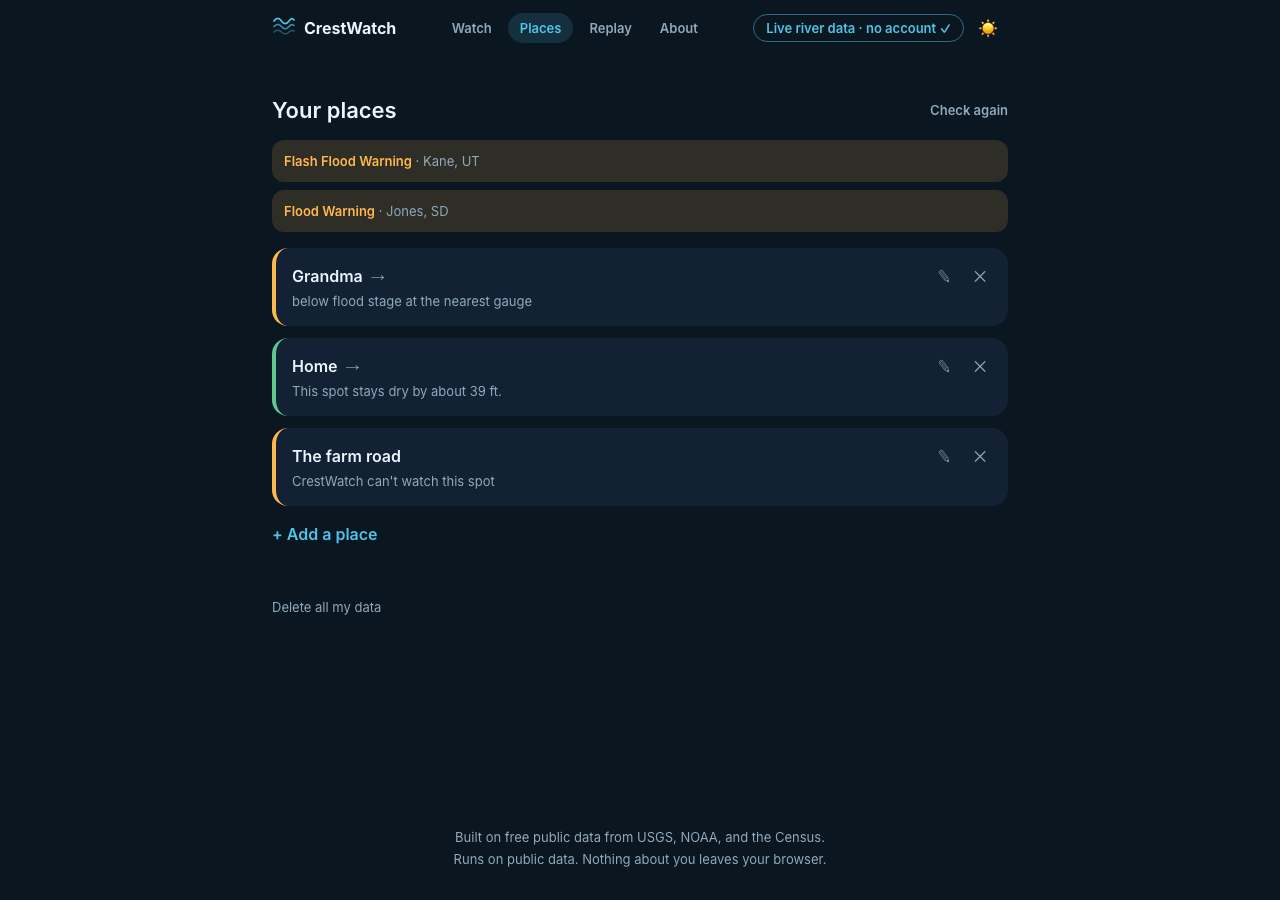
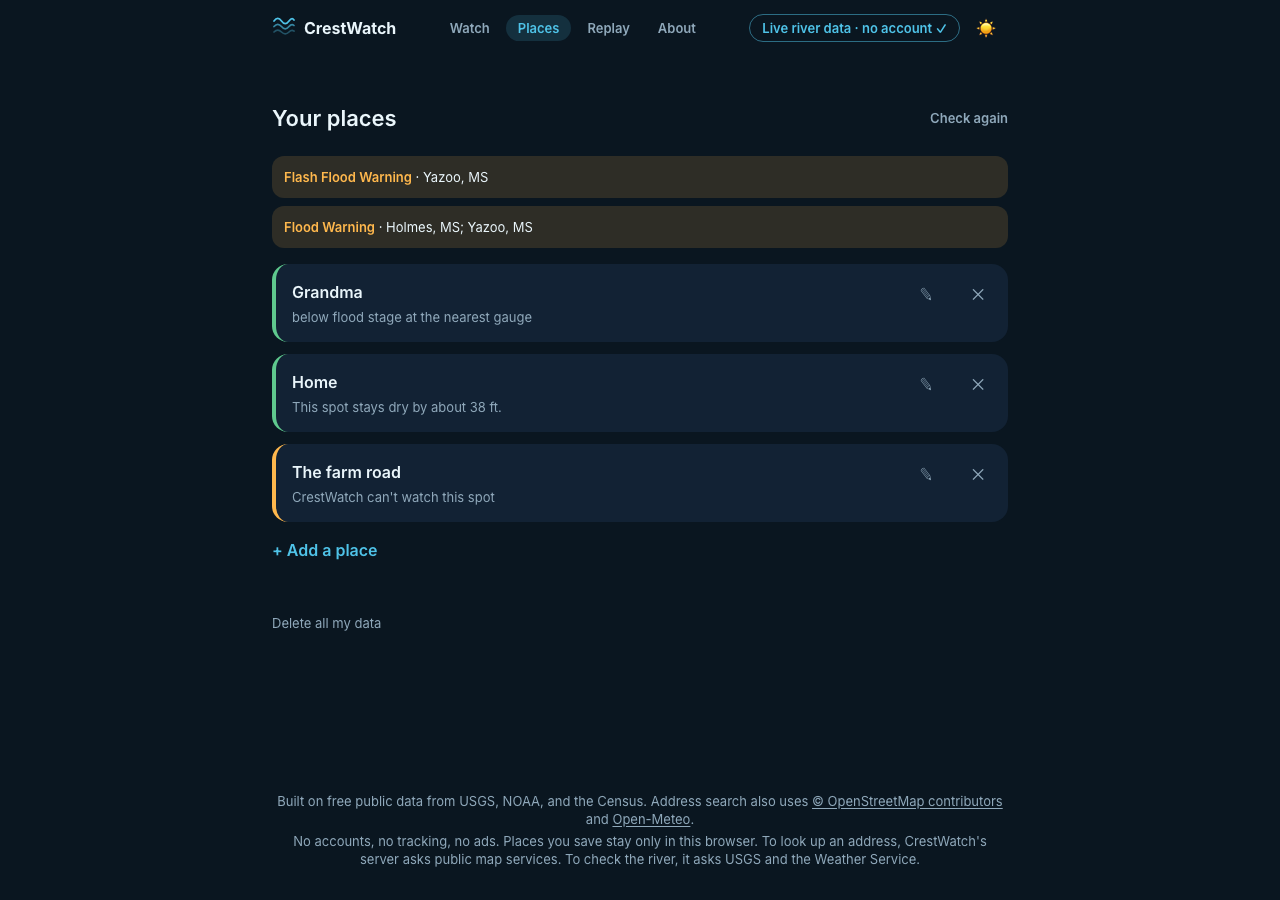
docs: final test counts and fresh screenshots [ai-assist]
Screenshots regenerated from the fixture server: Mississippi alerts, true
privacy footer, current wording. The recorded data shows as 60 days old,
which also shows the staleness warning at work.

diff --git a/README.md b/README.md
@@ -168,7 +168,8 @@ MIT licensed.
 
 ## Measured
 
-<!-- PM:counts -->
+- 463 unit tests in 26 files (Vitest), 36 end-to-end tests (Playwright),
+  all passing on Oct 23, 2026. `npm test` and `npm run test:e2e` rerun them.
 
 No map library: the water scene and the stage chart are hand-drawn SVG. The
 end-to-end tests run against recorded copies of the public data, so no
